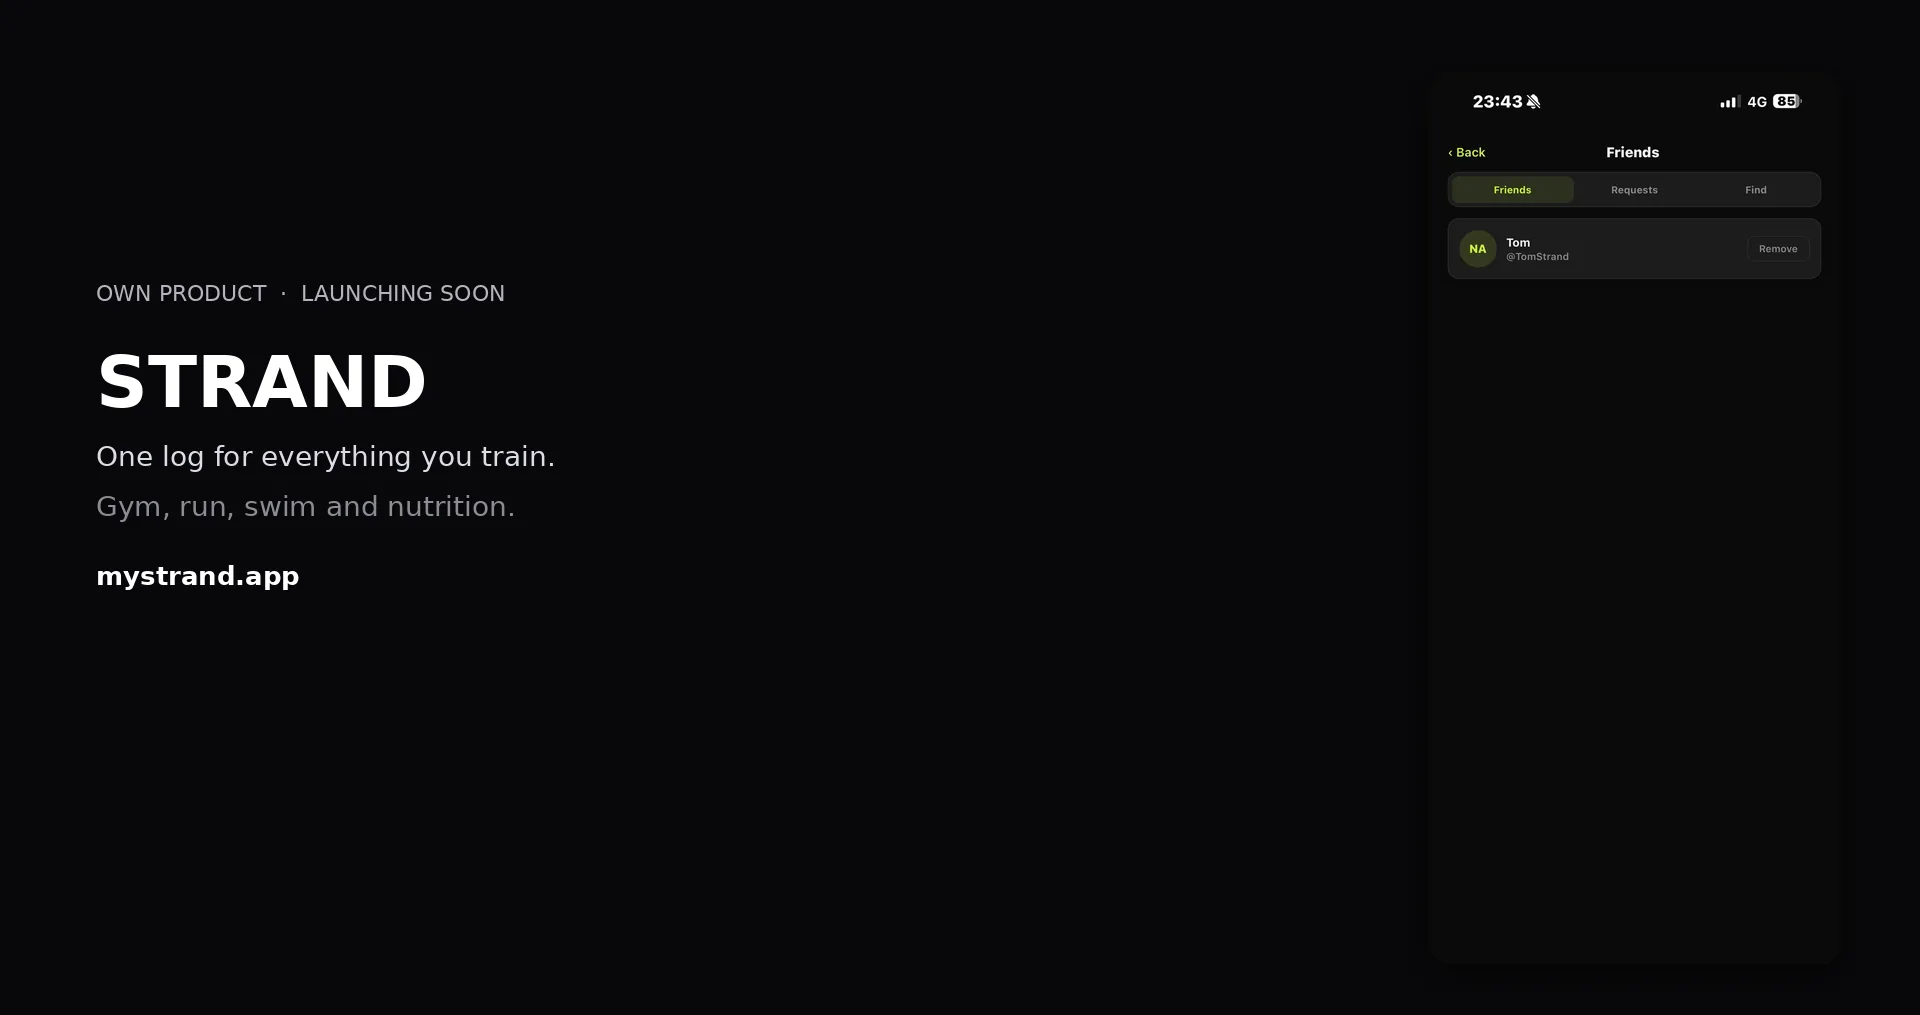
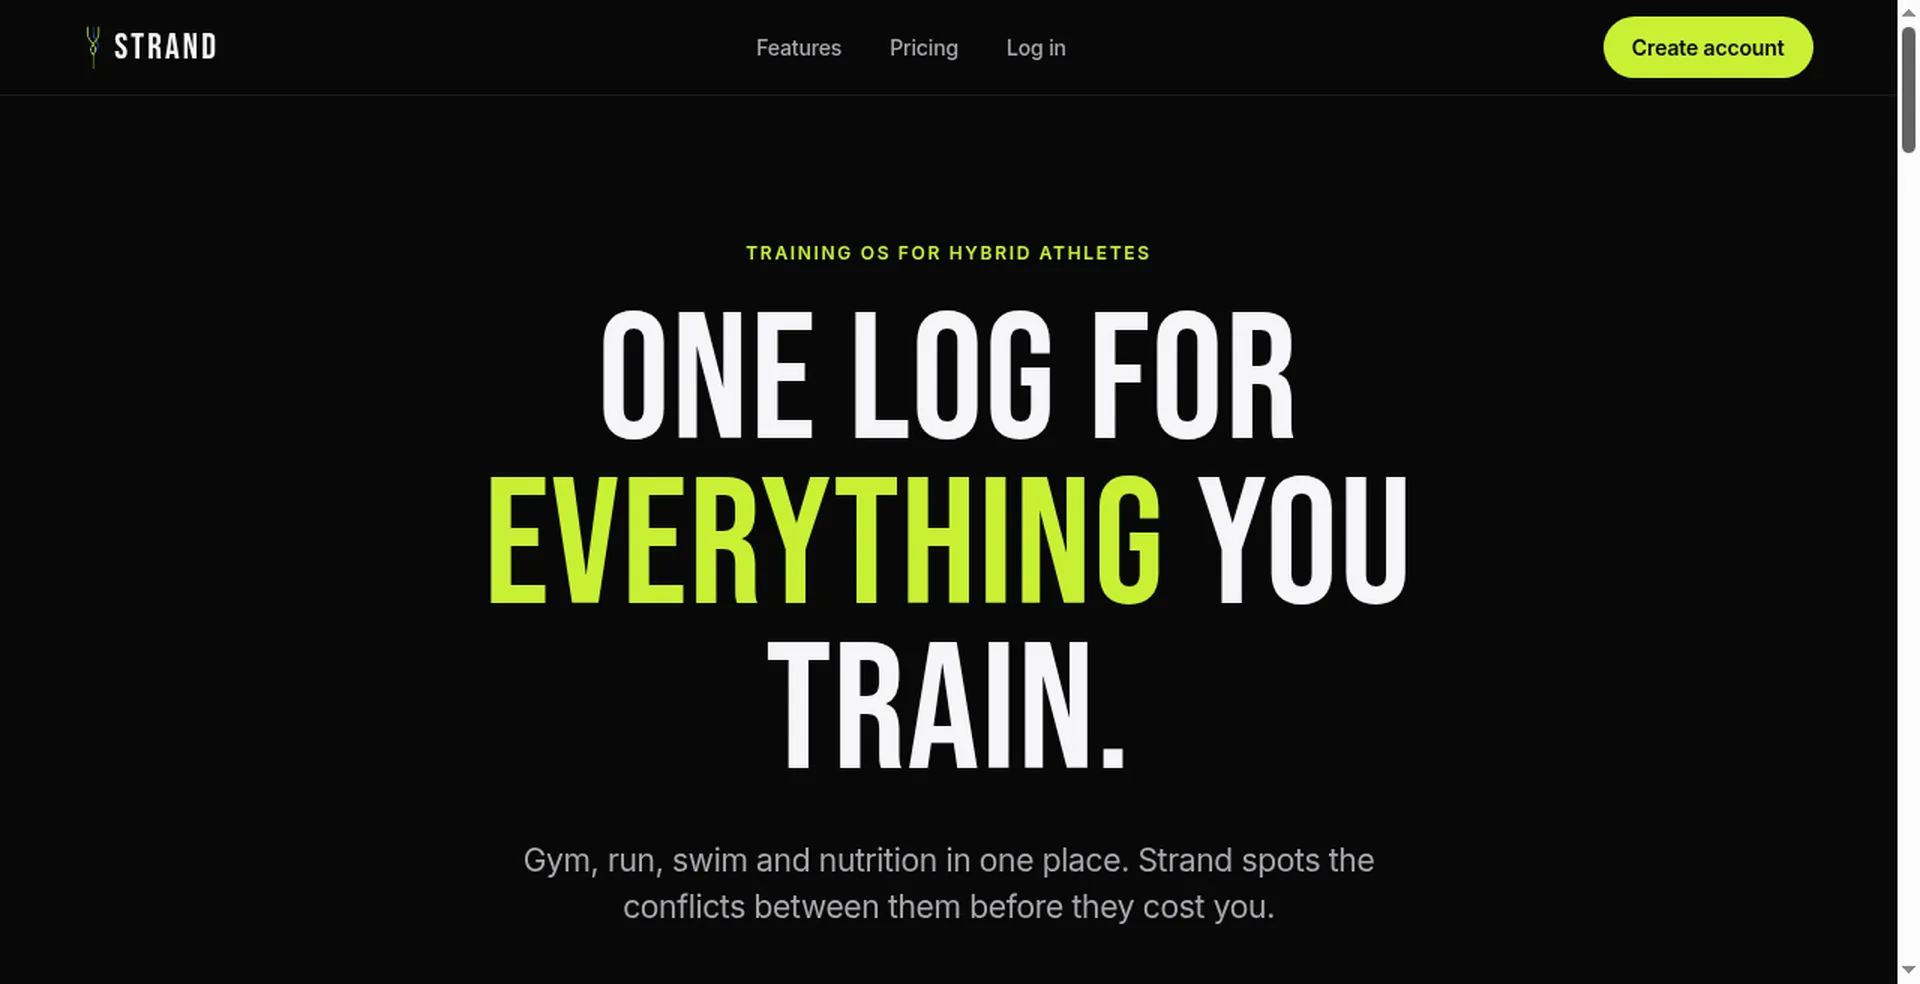
Use live Strand homepage screenshot for portfolio hero
Replace composite card art with the captured mystrand.app marketing hero.

diff --git a/portfolio-main/strand.html b/portfolio-main/strand.html
@@ -165,7 +165,7 @@
   <div class="cs-hero-img">
     <picture>
       <source srcset="strand.webp" type="image/webp" />
-      <img src="strand.jpg" alt="Strand — training OS homepage and app preview" width="1920" height="1015" decoding="async" />
+      <img src="strand.jpg" alt="Strand — training OS homepage and app preview" width="1920" height="984" decoding="async" />
     </picture>
   </div>
 

diff --git a/strand.html b/strand.html
@@ -165,7 +165,7 @@
   <div class="cs-hero-img">
     <picture>
       <source srcset="strand.webp" type="image/webp" />
-      <img src="strand.jpg" alt="Strand — training OS homepage and app preview" width="1920" height="1015" decoding="async" />
+      <img src="strand.jpg" alt="Strand — training OS homepage and app preview" width="1920" height="984" decoding="async" />
     </picture>
   </div>
 

diff --git a/index.html b/index.html
@@ -412,7 +412,7 @@
             src="strand.jpg"
             alt="Strand — training OS at mystrand.app"
             width="1920"
-            height="1015"
+            height="984"
             loading="lazy"
             decoding="async"
           />

diff --git a/portfolio-main/index.html b/portfolio-main/index.html
@@ -412,7 +412,7 @@
             src="strand.jpg"
             alt="Strand — training OS at mystrand.app"
             width="1920"
-            height="1015"
+            height="984"
             loading="lazy"
             decoding="async"
           />

diff --git a/SITE_CHANGELOG.md b/SITE_CHANGELOG.md
@@ -19,3 +19,6 @@
 
 ## 2026-09-09 (Strand)
 - Added Strand (mystrand.app) as own-product Selected Work card + `strand.html` case study (launching soon). Sitemap + llms updated.
+
+## 2026-09-09 (Strand hero)
+- Replaced Strand card/case-study hero with live mystrand.app homepage screenshot.

diff --git a/portfolio-main/SITE_CHANGELOG.md b/portfolio-main/SITE_CHANGELOG.md
@@ -19,3 +19,6 @@
 
 ## 2026-09-09 (Strand)
 - Added Strand (mystrand.app) as own-product Selected Work card + `strand.html` case study (launching soon). Sitemap + llms updated.
+
+## 2026-09-09 (Strand hero)
+- Replaced Strand card/case-study hero with live mystrand.app homepage screenshot.
